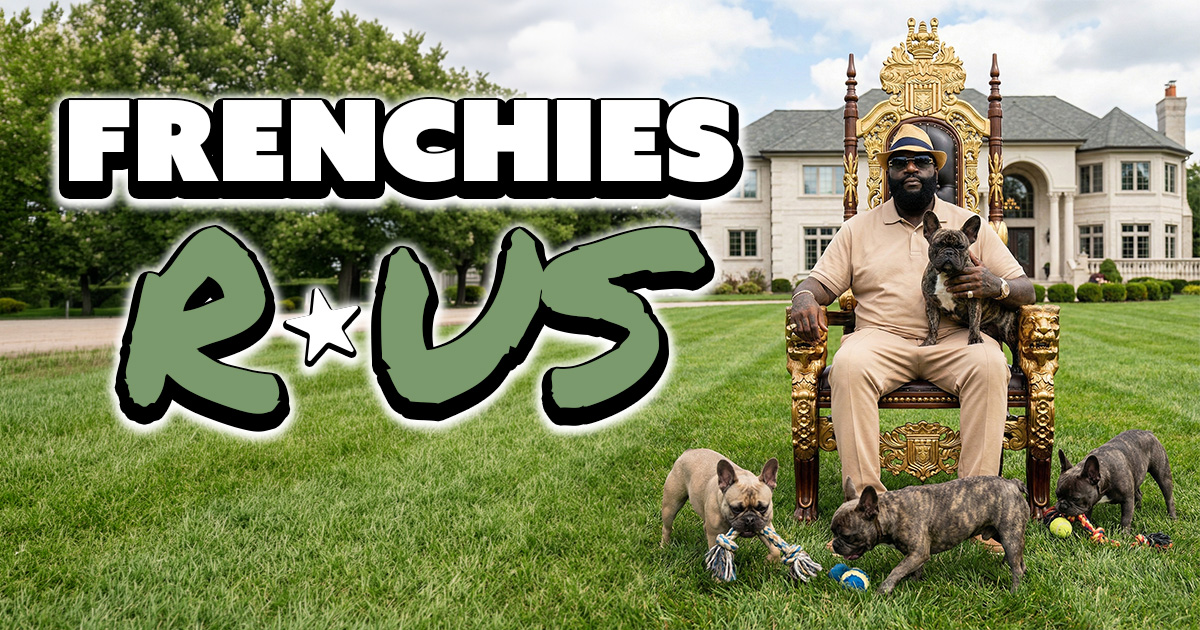
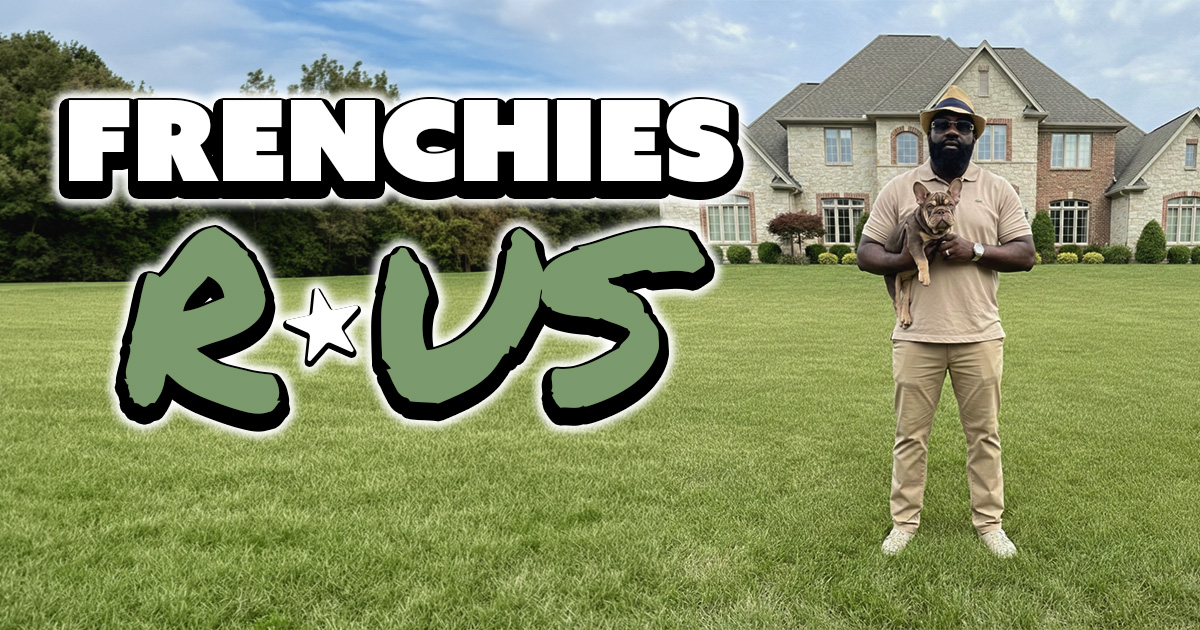
Finalize new images and remove cache-busting v=2

diff --git a/app/layout.tsx b/app/layout.tsx
@@ -47,7 +47,7 @@ export const metadata: Metadata = {
     siteName: 'Frenchies R Us NY',
     images: [
       {
-        url: '/socialsharing.jpg?v=2',
+        url: '/socialsharing.jpg',
         width: 1200,
         height: 630,
         alt: 'Frenchies R Us NY - Premium French Bulldog Breeder'
@@ -58,7 +58,7 @@ export const metadata: Metadata = {
     card: 'summary_large_image',
     title: 'Frenchies R Us NY | Premium French Bulldog Breeder',
     description: 'Exotic French Bulldog puppies. DNA verified, health tested, family raised.',
-    images: ['/socialsharing.jpg?v=2'],
+    images: ['/socialsharing.jpg'],
   },
   robots: {
     index: true,

diff --git a/components/About.tsx b/components/About.tsx
@@ -13,7 +13,7 @@ export default function About() {
                             style={{ backfaceVisibility: 'hidden', WebkitMaskImage: '-webkit-radial-gradient(white, black)' }}
                         >
                             <img
-                                src="/images/kbriggs.jpg?v=2"
+                                src="/images/kbriggs.jpg"
                                 alt="Kevin D Briggs Jr - The King of Frenchies"
                                 className="absolute inset-0 w-full h-full object-cover group-hover:scale-110 transition-all duration-1000"
                             />
